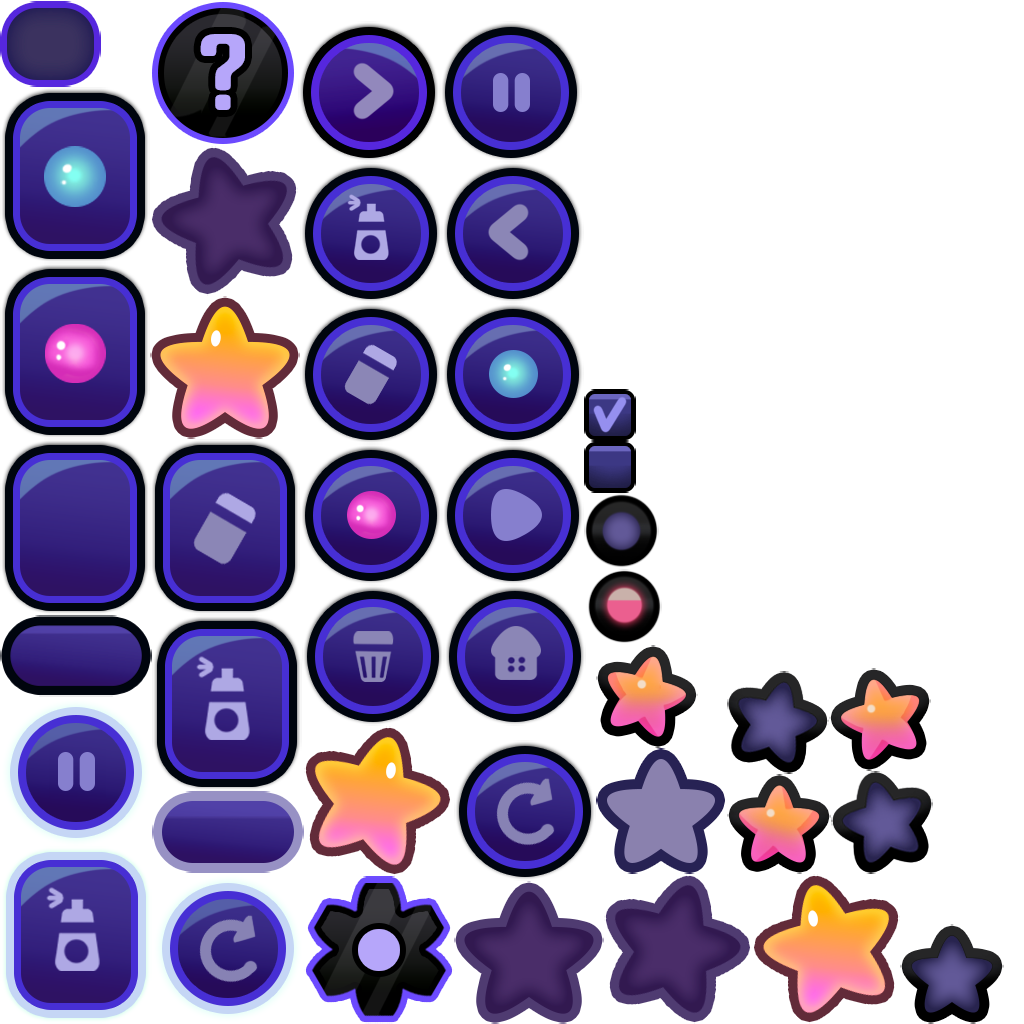
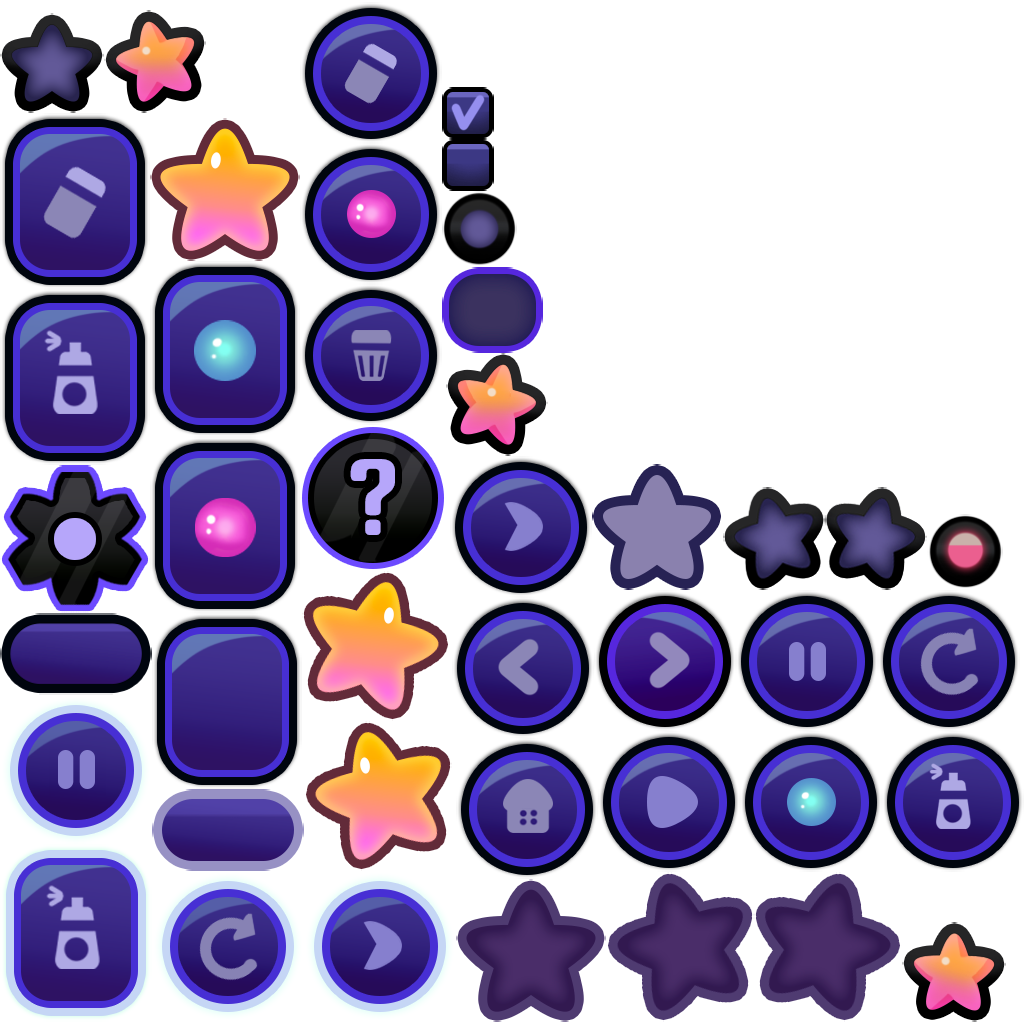
ui - win interface redesign; background fix

diff --git a/core/src/main/java/steelUnicorn/laplacity/ui/mainmenu/WinInterface.java b/core/src/main/java/steelUnicorn/laplacity/ui/mainmenu/WinInterface.java
@@ -7,14 +7,12 @@ import static steelUnicorn.laplacity.core.LaplacityAssets.sectionLevels;
 
 import com.badlogic.gdx.scenes.scene2d.Actor;
 import com.badlogic.gdx.scenes.scene2d.Stage;
-import com.badlogic.gdx.scenes.scene2d.ui.Button;
 import com.badlogic.gdx.scenes.scene2d.ui.Cell;
 import com.badlogic.gdx.scenes.scene2d.ui.Image;
-import com.badlogic.gdx.scenes.scene2d.ui.Label;
+import com.badlogic.gdx.scenes.scene2d.ui.ImageButton;
 import com.badlogic.gdx.scenes.scene2d.ui.Skin;
 import com.badlogic.gdx.scenes.scene2d.ui.Table;
 import com.badlogic.gdx.scenes.scene2d.utils.ChangeListener;
-import com.badlogic.gdx.utils.Align;
 import com.badlogic.gdx.utils.StringBuilder;
 import com.badlogic.gdx.utils.viewport.Viewport;
 
@@ -31,15 +29,16 @@ import steelUnicorn.laplacity.utils.LevelsParser;
  */
 public class WinInterface extends Stage {
     //Константы размеров
-    private static final float spaceSize = Globals.UI_WORLD_HEIGHT * 0.03f;
-    private static final float btnScale = 0.8f;
+    private static final float btnSpace = Globals.UI_WORLD_WIDTH * 0.02f;
+    private static final float starSpace = Globals.UI_WORLD_HEIGHT * 0.03f;
+    private static final float starsSpace = Globals.UI_WORLD_HEIGHT * 0.07f;
+    private static final float btnScale = 1.5f;
     private static final float edgeStarPad = Globals.UI_WORLD_HEIGHT * 0.05f;
+    private static final float starScale = 1.5f;
 
     private Table root; //<< Корневая таблица для позиционирования
 
     private Image background;
-
-    private static final String[] msg = new String[]{"Done...", "Acceptable.", "Good !", "Excellent !!!"};
 
     public WinInterface(Viewport viewport) {
         super(viewport);
@@ -78,26 +77,21 @@ public class WinInterface extends Stage {
     public void buildStage(int score) {
         clearStage();
 
-        //label
-        Label done = new Label(msg[score], TEXSKIN);
-        done.setAlignment(Align.center);
-        done.setName("doneLabel");
-        root.add(done).space(spaceSize);
         //stars
         root.row();
         Table stars = getStarRows(score);
-        root.add(stars);
+        root.add(stars).padBottom(starsSpace);
 
         root.row();
         //buttons
         Table buttons = new Table();
         buttons.setName("buttonsTable");
-        root.add(buttons).space(spaceSize);
+        root.add(buttons);
 
         buttons.defaults()
-                .space(spaceSize);
+                .space(btnSpace);
 
-        addButton(buttons, TEXSKIN, "ExitBtn", new ChangeListener() {
+        addButton(buttons, TEXSKIN, "Home", new ChangeListener() {
             @Override
             public void changed(ChangeEvent event, Actor actor) {
                 LaplacityAssets.playSound(LaplacityAssets.clickSound);
@@ -106,7 +100,7 @@ public class WinInterface extends Stage {
             }
         });
 
-        addButton(buttons, TEXSKIN, "ReplayBtn", new ChangeListener() {
+        addButton(buttons, TEXSKIN, "Replay", new ChangeListener() {
             @Override
             public void changed(ChangeEvent event, Actor actor) {
                 LaplacityAssets.playSound(LaplacityAssets.clickSound);
@@ -117,7 +111,7 @@ public class WinInterface extends Stage {
 
         //Если текущий уровень максимален, кнопки max не будет
         if (checkNextLevel()) {
-            addButton(buttons, TEXSKIN, "NextBtn", new ChangeListener() {
+            addButton(buttons, TEXSKIN, "Next", new ChangeListener() {
                 @Override
                 public void changed(ChangeEvent event, Actor actor) {
                     LaplacityAssets.playSound(LaplacityAssets.clickSound);
@@ -147,9 +141,10 @@ public class WinInterface extends Stage {
                         && Globals.progress.getSectionProgress(GameProcess.sectionNumber + 1).isOpened());
     }
 
-    private Cell<Button> addButton(Table table, Skin skin,
-                                   String name, ChangeListener listener) {
-        Button btn = new Button(skin, name);
+    private Cell<ImageButton> addButton(Table table, Skin skin,
+                                        String name, ChangeListener listener) {
+        ImageButton btn = new ImageButton(skin, name);
+        btn.getImageCell().grow();
         btn.setName(name);
         btn.addListener(listener);
 
@@ -177,7 +172,9 @@ public class WinInterface extends Stage {
 
             Image star = new Image(TEXSKIN, starName.toString());
             star.setName("star" + i);
-            stars.add(star).padTop(i != 2 ? edgeStarPad : 0);
+            stars.add(star).size(star.getPrefWidth() * starScale,
+                            star.getPrefHeight() * starScale)
+                    .space(starSpace).padTop(i != 2 ? edgeStarPad : 0).top();
         }
 
         return stars;

diff --git a/core/src/main/java/steelUnicorn/laplacity/screens/WinScreen.java b/core/src/main/java/steelUnicorn/laplacity/screens/WinScreen.java
@@ -38,7 +38,7 @@ public class WinScreen extends ManagedScreen {
 
 	@Override
 	public void render(float delta) {
-		Gdx.gl.glClearColor(1f, 1f, 1f, 1);
+		Gdx.gl.glClearColor(0, 0, 0, 1);
 		Gdx.gl.glClear(GL20.GL_COLOR_BUFFER_BIT);
 
 		winStage.act();
